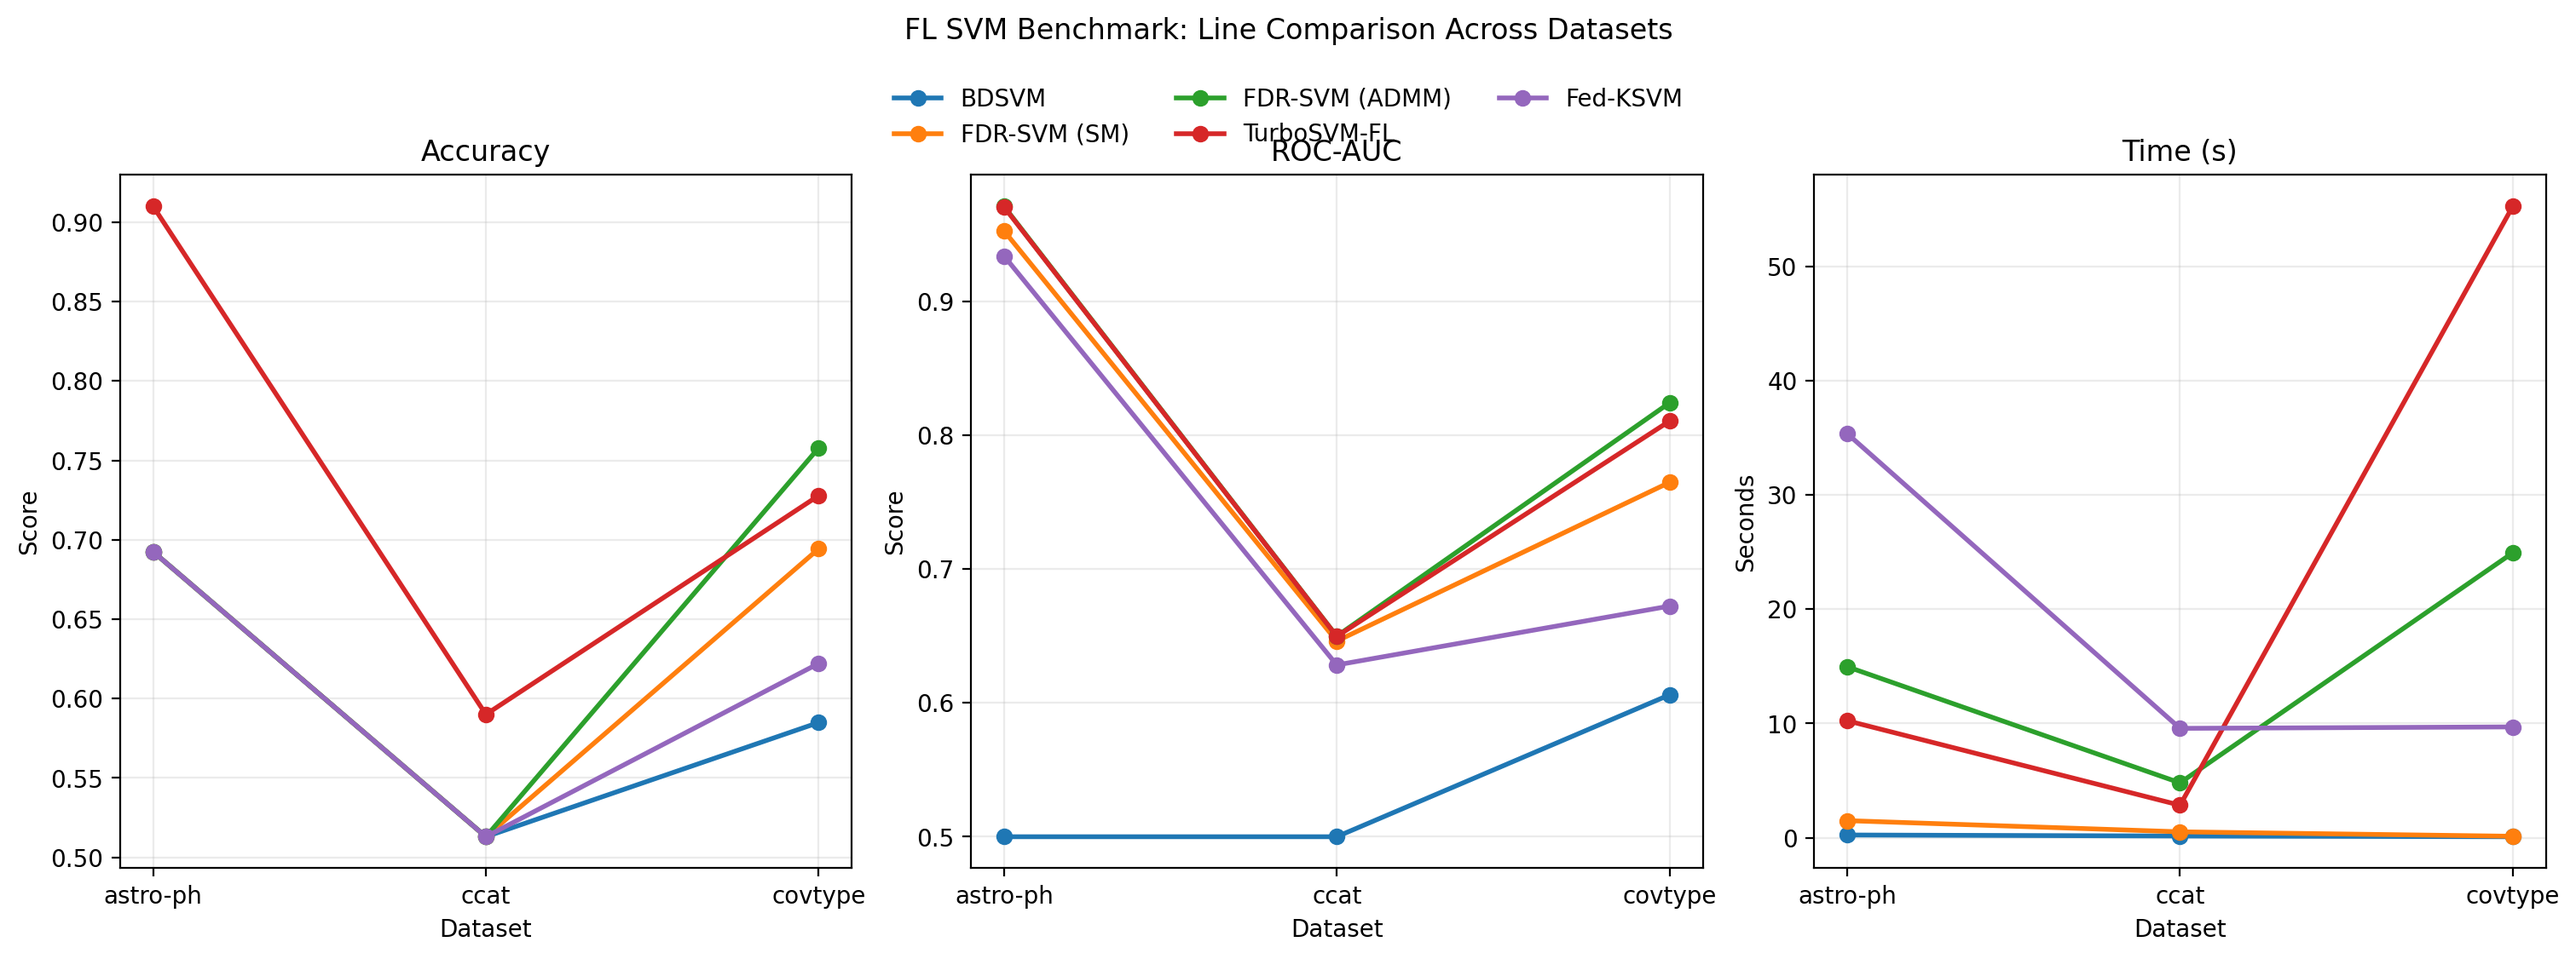
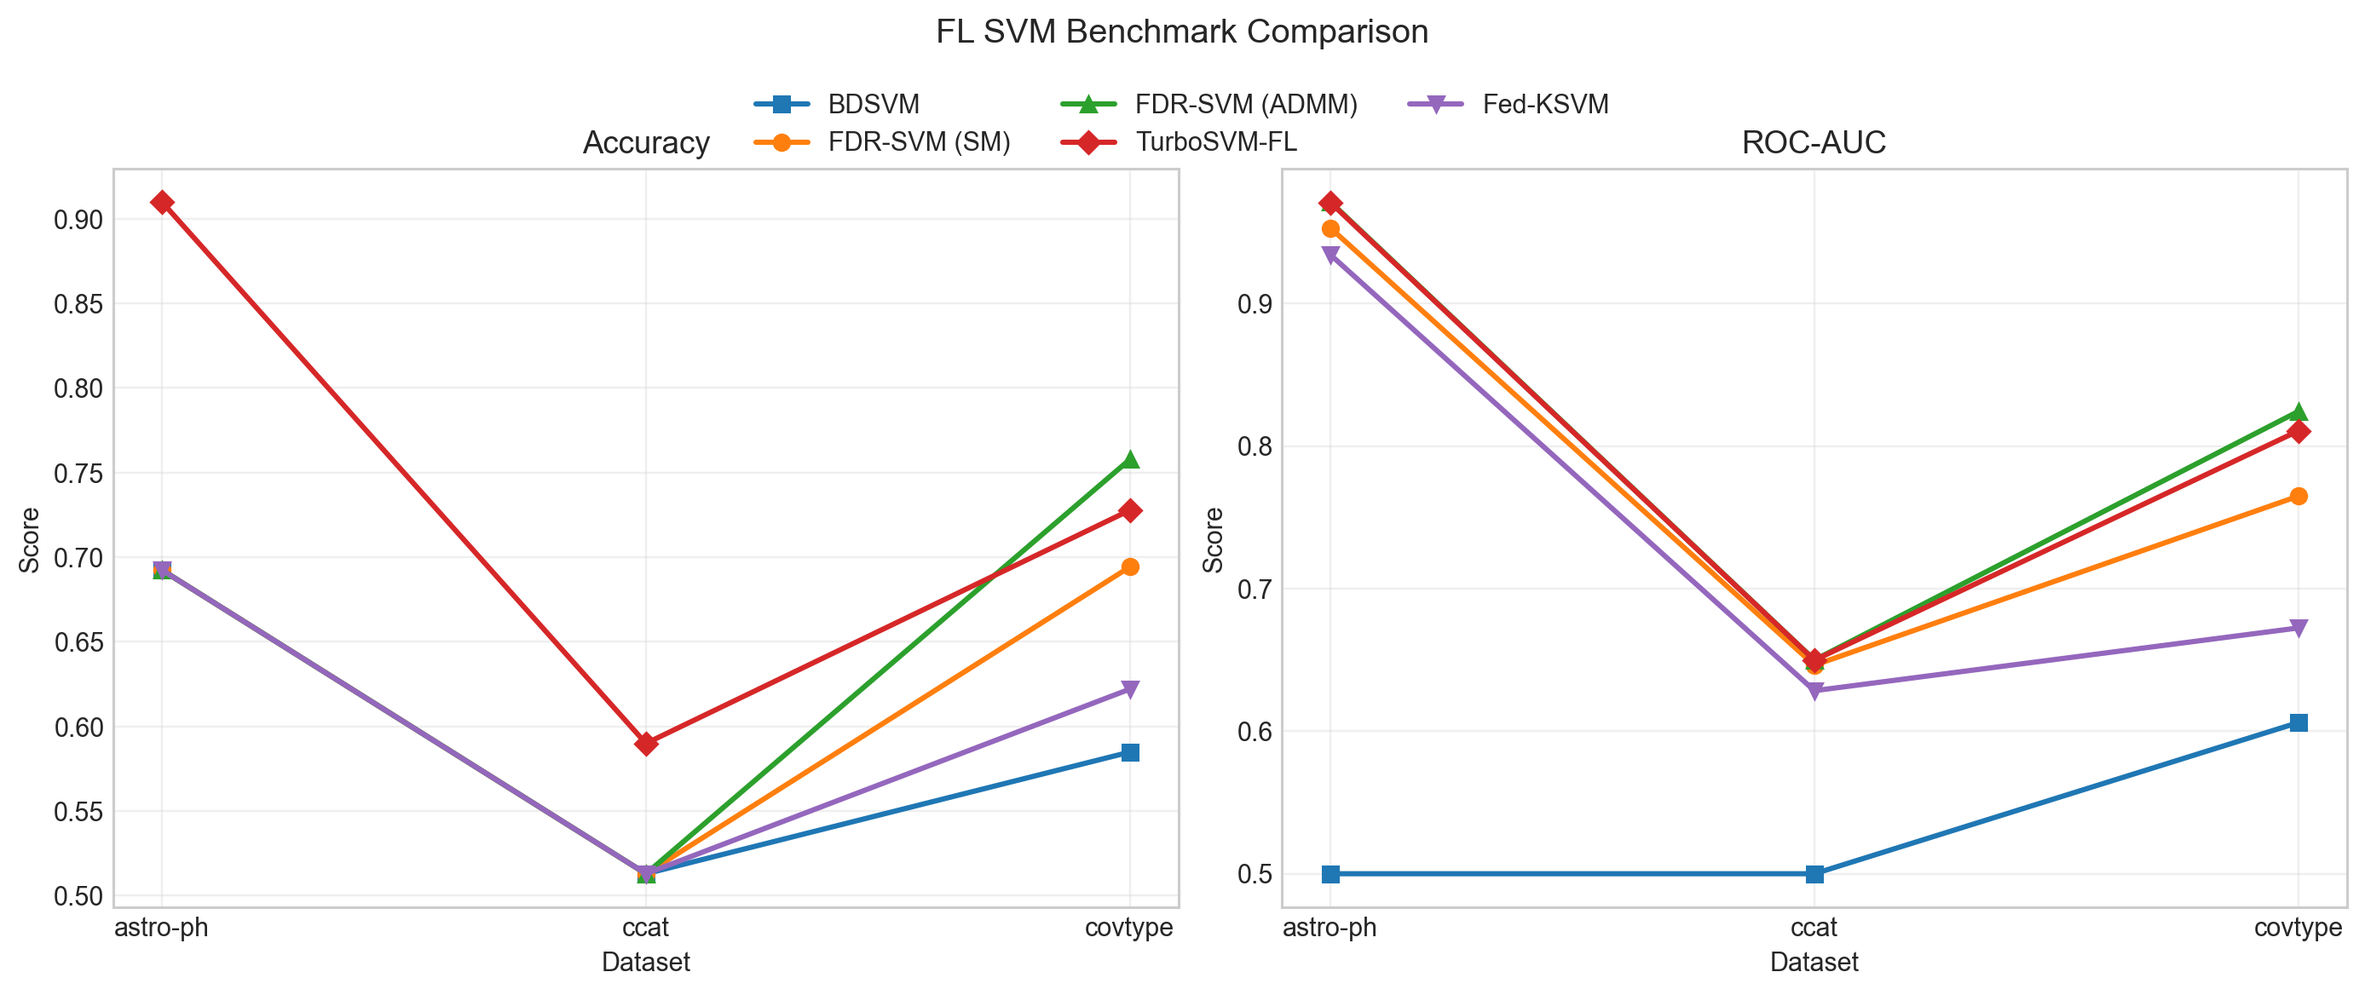
style: match benchmark chart to reference layout

diff --git a/benchmark/plot_results_lines.py b/benchmark/plot_results_lines.py
@@ -6,6 +6,9 @@ from pathlib import Path
 import matplotlib.pyplot as plt
 
 
+plt.style.use("seaborn-v0_8-whitegrid")
+
+
 def main() -> None:
     base = Path(__file__).resolve().parent
     src = base / "results_sdca_benchmark.json"
@@ -15,32 +18,48 @@ def main() -> None:
 
     datasets = ["astro-ph", "ccat", "covtype"]
     algorithms = list(data.keys())
+    colors = ["#1f77b4", "#ff7f0e", "#2ca02c", "#d62728", "#9467bd"]
+    markers = ["s", "o", "^", "D", "v"]
 
-    fig, axes = plt.subplots(1, 3, figsize=(15, 4.8), constrained_layout=True)
+    fig, axes = plt.subplots(1, 2, figsize=(12.5, 4.6), constrained_layout=True)
     metrics = [
         ("accuracy", "Accuracy", axes[0]),
         ("roc_auc", "ROC-AUC", axes[1]),
-        ("time_s", "Time (s)", axes[2]),
     ]
 
     for metric_key, title, ax in metrics:
-        for algo in algorithms:
+        for idx, algo in enumerate(algorithms):
             y = [float(data[algo]["datasets"][ds][metric_key]) for ds in datasets]
-            ax.plot(datasets, y, marker="o", linewidth=2, label=algo)
+            ax.plot(
+                datasets,
+                y,
+                marker=markers[idx % len(markers)],
+                color=colors[idx % len(colors)],
+                linewidth=2,
+                markersize=6,
+                label=algo,
+            )
 
         ax.set_title(title)
         ax.set_xlabel("Dataset")
-        ax.grid(alpha=0.25)
+        ax.grid(True, alpha=0.3)
+        ax.tick_params(axis="x", rotation=0)
 
     axes[0].set_ylabel("Score")
     axes[1].set_ylabel("Score")
-    axes[2].set_ylabel("Seconds")
 
     handles, labels = axes[0].get_legend_handles_labels()
-    fig.legend(handles, labels, loc="upper center", ncol=3, bbox_to_anchor=(0.5, 1.08), frameon=False)
-    fig.suptitle("FL SVM Benchmark: Line Comparison Across Datasets", y=1.14, fontsize=12)
+    fig.legend(
+        handles,
+        labels,
+        loc="upper center",
+        ncol=3,
+        bbox_to_anchor=(0.5, 1.06),
+        frameon=False,
+    )
+    fig.suptitle("FL SVM Benchmark Comparison", y=1.12, fontsize=13)
 
-    fig.savefig(out, dpi=200, bbox_inches="tight")
+    fig.savefig(out, dpi=220, bbox_inches="tight")
     print(f"Saved: {out}")
 
 
